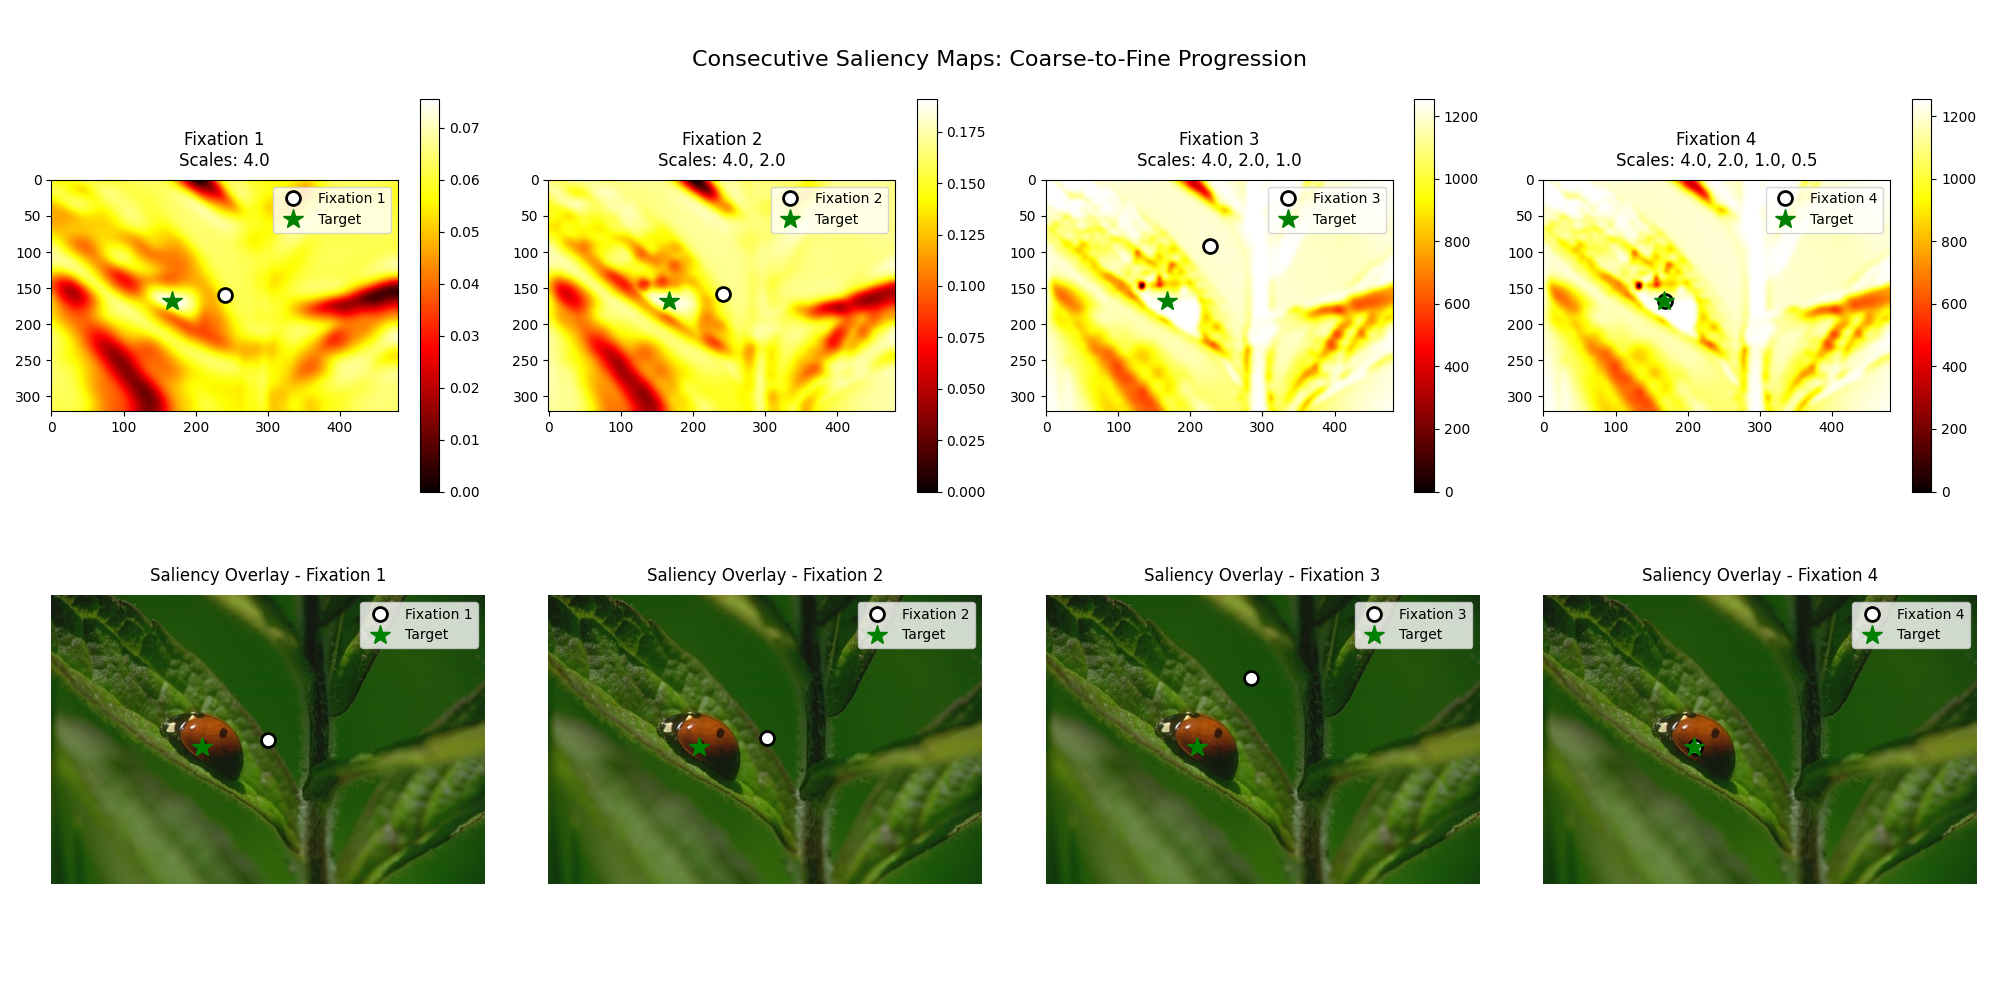
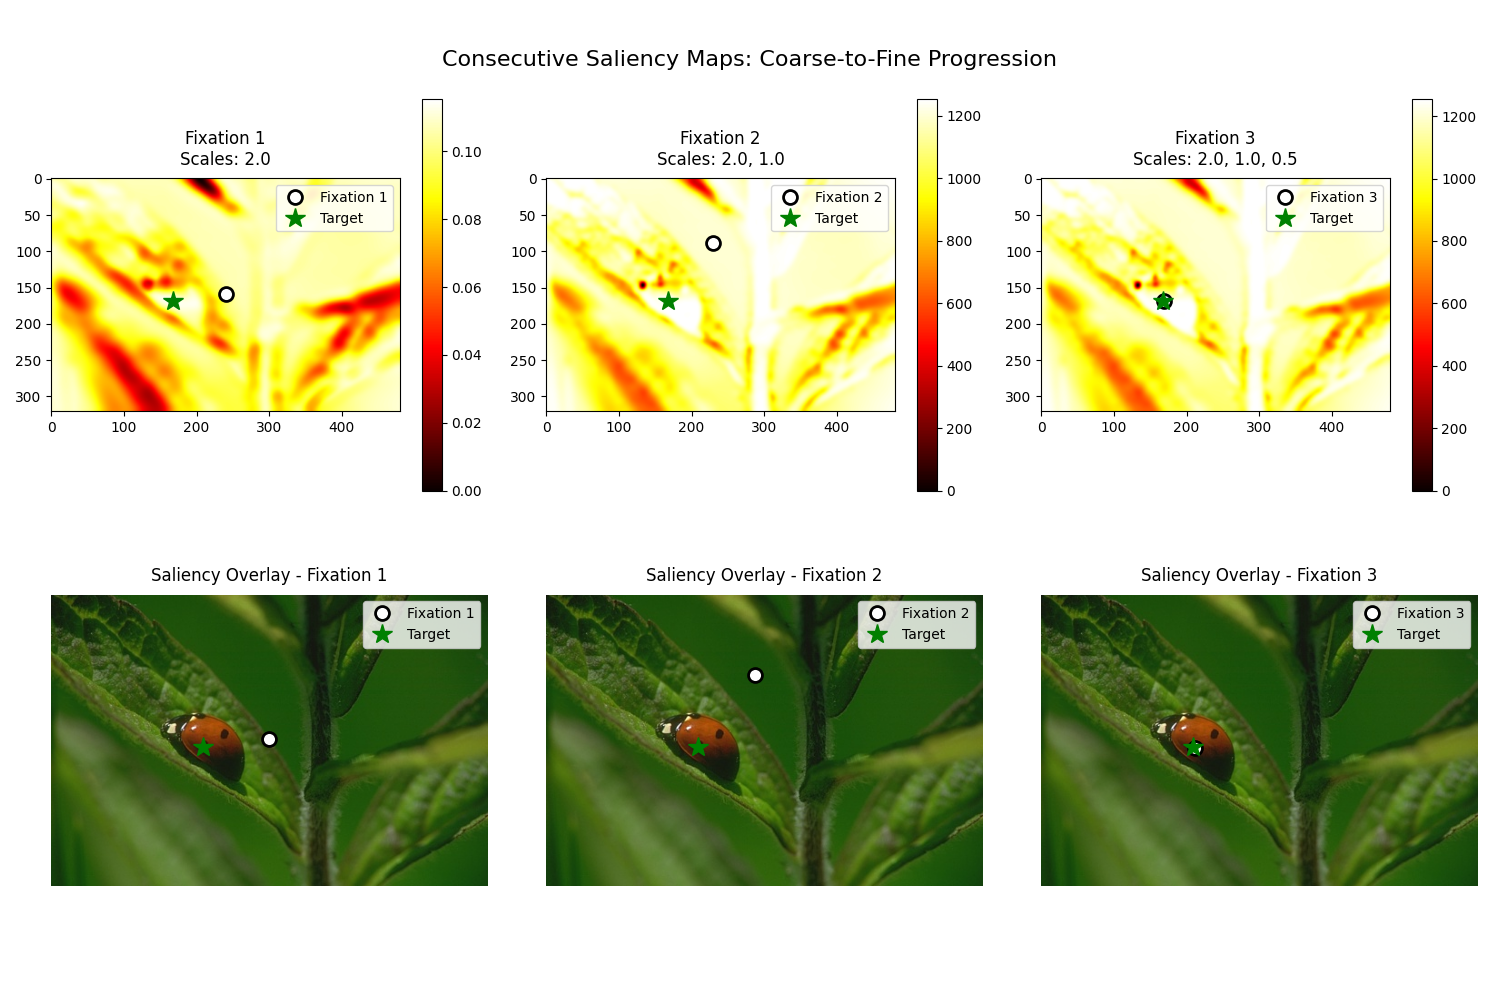
3 fixations instead of 4

diff --git a/main.py b/main.py
@@ -61,7 +61,6 @@ def process_all_images():
 
         # Perform visual search
         fixations = model.visual_search(image)
-        
 
         # Calculate performance metrics
         final_fixation = fixations[-1]
@@ -153,41 +152,8 @@ def create_summary_plots(results):
     plt.suptitle('Visual Search Results for All Images', y=0.98, fontsize=16)
     plt.show()
 
-    # Create performance summary
-    plt.figure(figsize=(12, 6))
-
-    # Distance to target plot
-    plt.subplot(1, 2, 1)
     distances = [r['final_distance'] for r in results]
     image_names = [r['image_name'] for r in results]
-
-    bars = plt.bar(range(len(distances)), distances)
-    plt.xlabel('Image')
-    plt.ylabel('Final Distance to Target (pixels)')
-    plt.title('Search Accuracy by Image')
-    plt.xticks(range(len(image_names)), image_names, rotation=45)
-
-    # Color bars by performance (green=good, red=poor)
-    max_dist = max(distances) if distances else 1
-    for i, bar in enumerate(bars):
-        ratio = distances[i] / max_dist
-        bar.set_color(plt.cm.RdYlGn_r(ratio))
-
-    plt.grid(True, alpha=0.3)
-
-    # Fixation count plot
-    plt.subplot(1, 2, 2)
-    fixation_counts = [len(r['fixations']) for r in results]
-
-    plt.bar(range(len(fixation_counts)), fixation_counts, color='steelblue')
-    plt.xlabel('Image')
-    plt.ylabel('Number of Fixations')
-    plt.title('Fixation Count by Image')
-    plt.xticks(range(len(image_names)), image_names, rotation=45)
-    plt.grid(True, alpha=0.3)
-
-    plt.tight_layout()
-    plt.show()
 
     # Print summary statistics
     print("\n" + "="*50)
@@ -198,7 +164,6 @@ def create_summary_plots(results):
     print(f"Median final distance: {np.median(distances):.1f} pixels")
     print(f"Best performance: {min(distances):.1f} pixels ({image_names[distances.index(min(distances))]})")
     print(f"Worst performance: {max(distances):.1f} pixels ({image_names[distances.index(max(distances))]})")
-    print(f"Average fixations: {np.mean(fixation_counts):.1f}")
 
 
 def process_single_image(image_name: str, show_filters: bool = False, show_saliency: bool = False):

diff --git a/visual_search.py b/visual_search.py
@@ -10,12 +10,12 @@ class VisualSearchModel:
     Uses coarse-to-fine strategy with weighted population averaging.
     """
 
-    def __init__(self, scales: List[float] = [4.0, 2.0, 1.0, 0.5]):
+    def __init__(self, scales: List[float] = [2.0, 1.0, 0.5]):
         self.scales = scales
         self.filter_bank = SpatioChromaticFilters()
         self.target_template = None
         self.target_bbox = None
-        self.temperature_schedule = [1.0, 0.5, 0.1, 0.01]
+        self.temperature_schedule = [1.0, 0.1, 0.01]
 
     def memorize_target(self, target_image: np.ndarray, bbox: dict):
         """
@@ -52,7 +52,7 @@ class VisualSearchModel:
         """
         Compute saliency map using scales from coarsest to current_scale_level.
         As described in the paper: start with coarsest scale, progressively add finer scales.
-        current_scale_level: 0=first fixation (coarsest only), 3=final fixation (all scales)
+        current_scale_level: 0=first fixation (coarsest only), 2=final fixation (all scales)
         scene_responses: Pre-computed filter responses for the entire image
         """
         if self.target_template is None:
@@ -63,8 +63,7 @@ class VisualSearchModel:
         # Use scales from coarsest (0) up to and including current_scale_level
         # Fixation 1: scales [0] (coarsest only)
         # Fixation 2: scales [0, 1] (coarsest + next)
-        # Fixation 3: scales [0, 1, 2] (coarsest + two next)
-        # Fixation 4: scales [0, 1, 2, 3] (all scales)
+        # Fixation 3: scales [0, 1, 2] (all scales)
         num_filters = len(self.filter_bank.filters)
 
         saliency_map = np.zeros((height, width))

diff --git a/README.md b/README.md
@@ -12,15 +12,15 @@ This implementation is based on the following paper:
 
 The model implements a biologically-inspired visual search system that uses:
 - **Steerable filters** based on Gaussian derivatives (up to 3rd order)
-- **Multi-scale processing** with 4 spatial scales (4.0x, 2.0x, 1.0x, 0.5x)
-- **Coarse-to-fine search strategy** with 4 fixations
+- **Multi-scale processing** with 3 spatial scales (2.0x, 1.0x, 0.5x)
+- **Coarse-to-fine search strategy** with 3 fixations
 - **Weighted population averaging** for attention guidance
 - **Template matching** using iconic feature representations
 
 ## Key Features
 
 - **10 basis filters**: G0 (Gaussian), G1 (1st derivatives), G2 (2nd derivatives), G3 (3rd derivatives)
-- **Multi-scale analysis**: Processes features at 4 different spatial resolutions
+- **Multi-scale analysis**: Processes features at 3 different spatial resolutions
 - **Progressive search**: From broad global search to precise target localization
 - **Filter visualization**: Detailed analysis of filter responses and target matching
 - **Performance evaluation**: Distance metrics and search accuracy analysis
@@ -115,20 +115,19 @@ iconic-visual-search/
 
 ### 1. Spatio-Chromatic Filters (`SpatioChromaticFilters`)
 - **Filter bank**: 10 steerable filters based on Gaussian derivatives
-- **Multi-scale**: Applies filters at 4 different spatial scales
+- **Multi-scale**: Applies filters at 3 different spatial scales
 - **Feature extraction**: Creates iconic representation of image patches
 
 ### 2. Visual Search Model (`VisualSearchModel`)
 - **Target memorization**: Stores template from target location
 - **Saliency computation**: Computes similarity maps using filter responses
-- **Coarse-to-fine search**: 4 fixations with decreasing temperature
+- **Coarse-to-fine search**: 3 fixations with decreasing temperature
 - **Attention guidance**: Weighted population averaging for fixation selection
 
 ### 3. Search Process
-1. **Fixation 1**: Very coarse scale (4.0x), high temperature (1.0) - global search
-2. **Fixation 2**: Coarse scale (2.0x), medium temperature (0.5) - regional focus
-3. **Fixation 3**: Medium scale (1.0x), low temperature (0.1) - local search
-4. **Fixation 4**: Fine scale (0.5x), very low temperature (0.01) - precise localization
+2. **Fixation 1**: Coarse scale (2.0x), medium temperature (1) - regional focus
+3. **Fixation 2**: Medium scale (1.0x), low temperature (0.1) - local search
+4. **Fixation 3**: Fine scale (0.5x), very low temperature (0.01) - precise localization
 
 ## Visualizations
 
@@ -143,7 +142,7 @@ iconic-visual-search/
 - **Performance metrics**: Distance calculations and search accuracy
 
 ### Saliency Maps Mode (--saliency)
-- **Consecutive saliency maps**: Shows saliency evolution across all 4 spatial scales
+- **Consecutive saliency maps**: Shows saliency evolution across all 3 spatial scales
 - **Scale progression**: Visualization of coarse-to-fine search strategy
 - **Fixation overlay**: Original image with corresponding fixation points for each scale
 
@@ -167,7 +166,7 @@ The model performs a coarse-to-fine visual search on the ladybug image, showing 
 
 ![Ladybug Saliency Maps](results/ladybug_saliency.png)
 
-This visualization shows how the saliency maps evolve across different spatial scales (4.0x, 2.0x, 1.0x, 0.5x) during the coarse-to-fine search process. Bright areas indicate regions with high similarity to the target template. The bottom row shows the original image with the corresponding fixation point for each scale.
+This visualization shows how the saliency maps evolve across different spatial scales (2.0x, 1.0x, 0.5x) during the coarse-to-fine search process. Bright areas indicate regions with high similarity to the target template. The bottom row shows the original image with the corresponding fixation point for each scale.
 
 ## Technical Details
 
